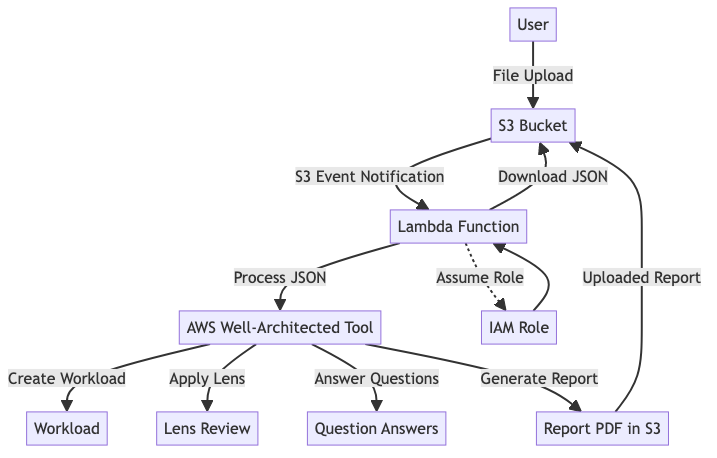
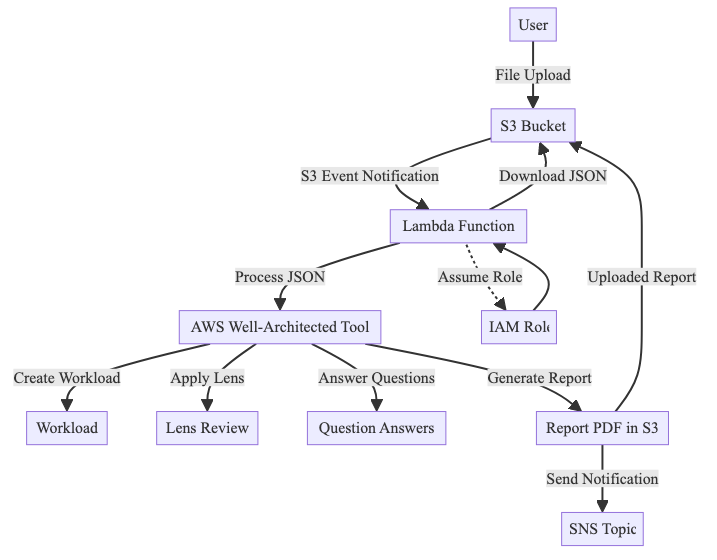
Adding SNS Notifications for PDF Reports

Changed region(s): [[0.1841, 0.1223, 0.9819, 0.9782], [0.0, 0.6419, 0.2148, 0.9782], [0.7057, 0.0, 0.7978, 0.0917]]

diff --git a/lib/well_architected_tool-stack.ts b/lib/well_architected_tool-stack.ts
@@ -4,6 +4,8 @@ import * as s3 from 'aws-cdk-lib/aws-s3';
 import * as iam from 'aws-cdk-lib/aws-iam';
 import * as lambda from 'aws-cdk-lib/aws-lambda';
 import * as s3n from 'aws-cdk-lib/aws-s3-notifications';
+import * as sns from 'aws-cdk-lib/aws-sns';
+import * as sns_subscriptions from 'aws-cdk-lib/aws-sns-subscriptions';
 
 
 export class WellArchitectedToolStack extends cdk.Stack {
@@ -31,34 +33,48 @@ export class WellArchitectedToolStack extends cdk.Stack {
     const fitzLayer = new lambda.LayerVersion(this, 'FitzLayer', {
       code: lambda.Code.fromAsset('layer/fitz-layer.zip'),
       compatibleRuntimes: [lambda.Runtime.PYTHON_3_9],
-      
+
       description: 'Layer containing the fitz (PyMuPDF) library',
     });
 
+    // SNS topic for notifications
+    const topic = new sns.Topic(this, 'PdfReportNotificationTopic', {
+      displayName: 'PDF Report Notification Topic'
+    });
+
+    // Adding a subscription to the SNS topic (e.g., Email Subscription)
+    topic.addSubscription(new sns_subscriptions.EmailSubscription('your_email@example.com'));
+
+
     // Lambda function triggered by S3 upload
     const fn = new lambda.Function(this, 'CustomLensHandler', {
-        functionName: 'well_architected_tool',
-        runtime: lambda.Runtime.PYTHON_3_9,
-        code: lambda.Code.fromAsset('lambda'),
-        architecture: lambda.Architecture.X86_64,
-        handler: 'well_architected_tool.handler',
-        role: lambdaRole,
-        timeout: cdk.Duration.seconds(30),
-        layers: [fitzLayer],
-        environment: {
-            'REGION': this.region,
-            'ACCOUNT': this.account,
-            'LENS_NAME': 'Sample Lens',
-            'LENS_VERSION': '1.0',
-            'WORKLOAD_NAME': 'My Workload',
-            'WORKLOAD_DESCRIPTION': 'My Workload Description',
-            'REVIEW_OWNER': 'your_review_owner_email@example.com',
-            'CUSTOM_LENS_FILENAME': 'custom_lens.json',
-            'ANSWERS_FILENAME': 'answers.json',
-            'WA_PDF': 'well-architected-report.pdf',
-            'WA_PDF_MASKED': 'well-architected-report-masked.pdf'
-        }
+      functionName: 'well_architected_tool',
+      runtime: lambda.Runtime.PYTHON_3_9,
+      code: lambda.Code.fromAsset('lambda'),
+      architecture: lambda.Architecture.X86_64,
+      handler: 'well_architected_tool.handler',
+      role: lambdaRole,
+      timeout: cdk.Duration.seconds(30),
+      layers: [fitzLayer],
+      environment: {
+        'REGION': this.region,
+        'ACCOUNT': this.account,
+        'LENS_NAME': 'Sample Lens',
+        'LENS_VERSION': '1.0',
+        'WORKLOAD_NAME': 'My Workload',
+        'WORKLOAD_DESCRIPTION': 'My Workload Description',
+        'REVIEW_OWNER': 'your_review_owner_email@example.com',
+        'CUSTOM_LENS_FILENAME': 'custom_lens.json',
+        'ANSWERS_FILENAME': 'answers.json',
+        'WA_PDF': 'well-architected-report.pdf',
+        'WA_PDF_MASKED': 'well-architected-report-masked.pdf',
+        'SNS_TOPIC_ARN': topic.topicArn
+
+      }
     });
+
+    // Grant SNS publish permissions to the Lambda function
+    topic.grantPublish(fn);
 
     // Adding S3 bucket notification to trigger Lambda on object creation
     bucket.addEventNotification(s3.EventType.OBJECT_CREATED, new s3n.LambdaDestination(fn));

diff --git a/flowchart1.css b/flowchart1.css
@@ -1,0 +1,25 @@
+.flowchart-link {
+  animation: dash 30s linear infinite;
+}
+
+.label {
+  /*
+   * If you want to override mermaid's `themeCSS`, it's recommended to instead
+   * set `themeCSS` in your mermaid `configFile.json`
+   *
+   * However, sometimes `!important` can also be used to override `themeCSS`.
+   */
+  font-family: "fantasy" !important;
+}
+
+@keyframes dash {
+  0% {
+    stroke-dashoffset: 1000;
+  }
+  10% {
+    /* No animation for the first 10% for consistent visual testing screenshots */
+    stroke-dashoffset: 1000;
+  }
+  100% {
+  }
+}

diff --git a/lambda/well_architected_tool.py b/lambda/well_architected_tool.py
@@ -10,6 +10,7 @@ class WellArchitectedTool:
     def __init__(self, region_name):
         self.client = boto3.client('wellarchitected', region_name=region_name)
         self.s3_client = boto3.client('s3')
+        self.sns_client = boto3.client('sns')
 
 
     def upload_custom_lens(self, lens_json, lens_version):
@@ -168,7 +169,7 @@ class WellArchitectedTool:
         except Exception as e:
             print(f"Error updating workload {workload_id} with lens {lens_arn}: {e}")
 
-    def generate_report(self, workload_id, lens_arn,bucket_name,wa_pdf):
+    def generate_report(self, workload_id, lens_arn,bucket_name,wa_pdf,sns_topic_arn):
         try:
             response = self.client.get_lens_review_report(
                 WorkloadId=workload_id,
@@ -179,11 +180,20 @@ class WellArchitectedTool:
             s3_key = wa_pdf
             self.s3_client.put_object(Bucket=bucket_name, Key=s3_key, Body=pdf_data)
             print(f"Well-Architected report generated and uploaded to s3://{bucket_name}/{s3_key}")
+
+            # Publish SNS notification
+            message = f"Well-Architected report generated and uploaded to s3://{bucket_name}/{s3_key}"
+            self.sns_client.publish(
+                TopicArn=sns_topic_arn,
+                Message=message,
+                Subject='Well-Architected Report Available'
+            )
+            print("SNS notification sent.")           
         except self.client.exceptions.ValidationException as e:
             if "No lens review for lens alias" in str(e):
                 print(f"No lens review found for workload {workload_id} and lens {lens_arn}. Creating a new lens review...")
                 self.create_or_update_lens_review(workload_id, lens_arn)
-                self.generate_report(workload_id, lens_arn,bucket_name,wa_pdf)
+                self.generate_report(workload_id, lens_arn,bucket_name,wa_pdf,sns_topic_arn)
             else:
                 print(f"Error generating report for workload {workload_id} and lens {lens_arn}: {e}")
         except Exception as e:
@@ -225,6 +235,8 @@ def handler(event, context):
     answers_file = os.getenv('ANSWERS_FILENAME')
     wa_pdf = os.getenv('WA_PDF')
     wa_pdf_masked = os.getenv('WA_PDF_MASKED')
+    sns_topic_arn = os.getenv('SNS_TOPIC_ARN')
+
     tool = WellArchitectedTool(region_name)
 
     # Iterate through the uploaded files
@@ -257,7 +269,7 @@ def handler(event, context):
                     else:
                         tool.create_or_update_lens_review(workload_id, lens_arn)
                     tool.update_workload(workload_id, lens_arn, answers_json)
-                    tool.generate_report(workload_id, lens_arn,bucket,wa_pdf)
+                    tool.generate_report(workload_id, lens_arn,bucket,wa_pdf,sns_topic_arn)
                     tool.mask_pdf(bucket, account_number,wa_pdf, wa_pdf_masked)
 
 

diff --git a/CHANGELOG.md b/CHANGELOG.md
@@ -6,6 +6,13 @@
 
 All notable changes to this project will be documented in this file.
 
+## [0.3.2] - 2024-05-30
+### Added
+- Integration with SNS for notifications when the PDF report is uploaded.
+- Email subscription for SNS notifications.
+- Grant publish permissions to Lambda function for SNS topic.
+- Updated architecture diagram using Mermaid command in README.
+
 ## [0.3.1] - 2024-05-29
 ### Added
 - `mask_pdf` function in Lambda code to redact account numbers from PDF files before uploading to S3.

diff --git a/README.md b/README.md
@@ -1,6 +1,7 @@
 # Automating the AWS Well-Architected Tool using a Custom Lens
 
 # Architecture Diagram
+* `mmdc -i diagram.mmd -t dark -b transparent --cssFile flowchart1.css -o diagram.png`
 
 ```mermaid
 graph TD;
@@ -15,6 +16,7 @@ graph TD;
     C -->|Answer Questions| G[Question Answers];
     C -->|Generate Report| H[Report PDF in S3];
     H -->|Uploaded Report| A;
+    H -->|Send Notification| I[SNS Topic];
 ```
 
 # Usage
